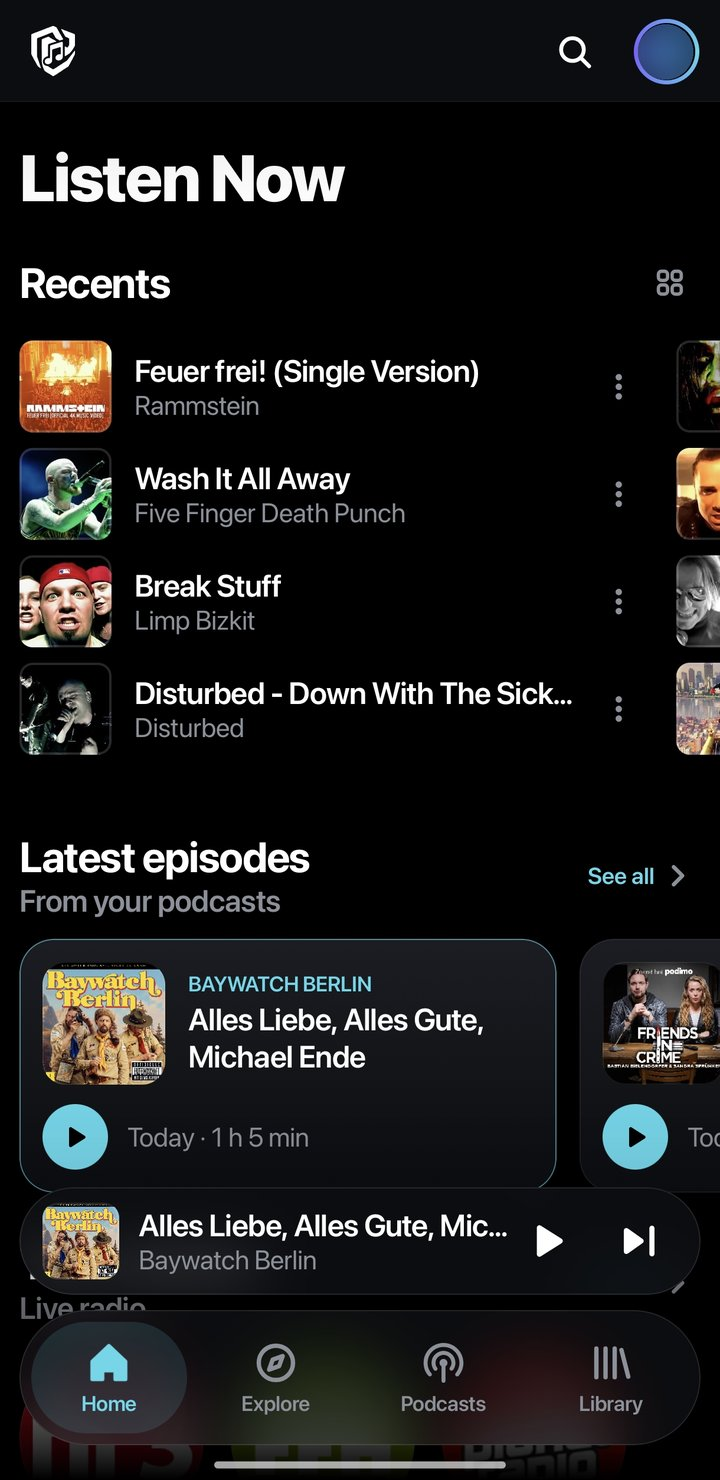
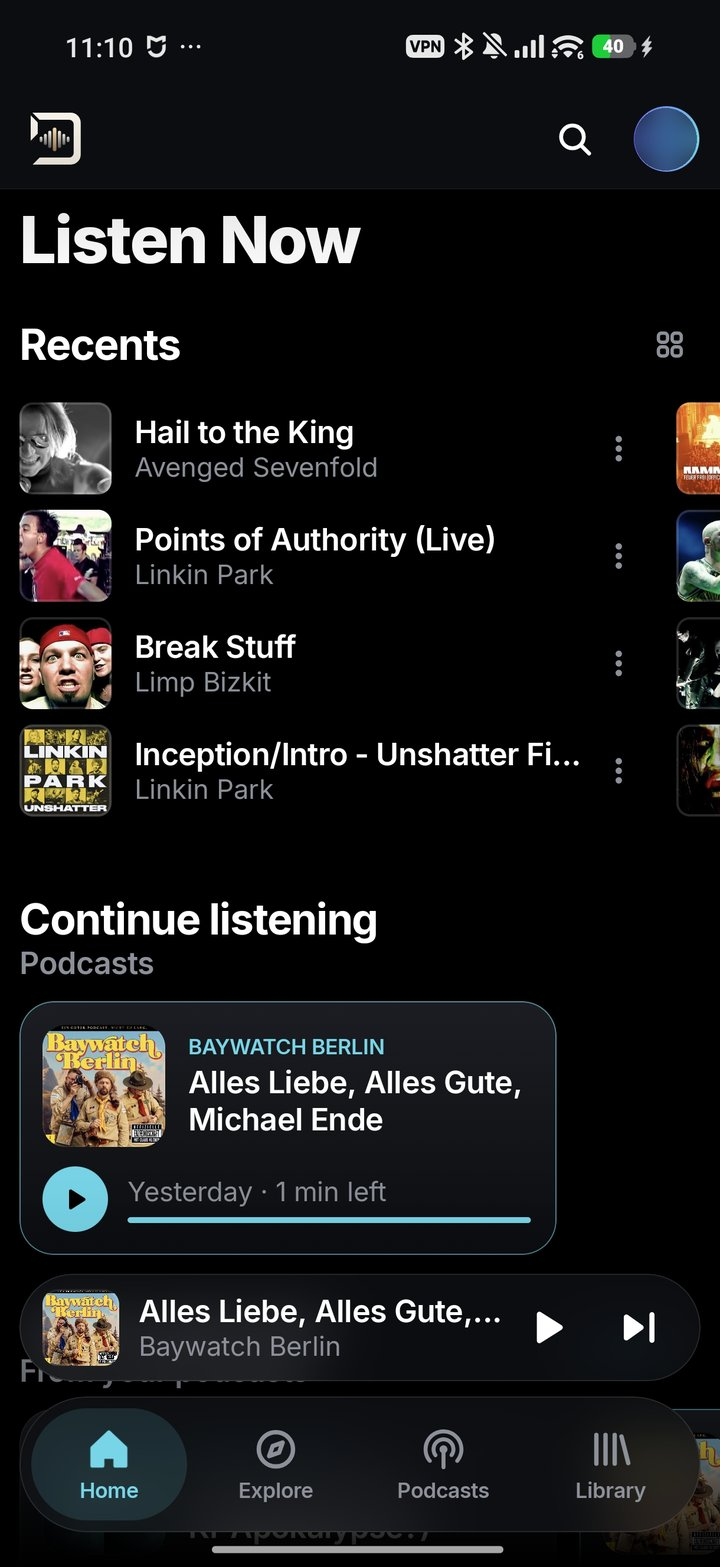
New Screenshots and readme added

diff --git a/README.md b/README.md
@@ -30,10 +30,6 @@
 
 ## Built on BitChord
 
-<div align="center">
-
-</div>
-
 <img src="docs/images/bitchord-icon.png" alt="BitChord" width="72" align="left" />
 
 **PAXwave is a fork of [BitChord](https://github.com/kushagrasinghx/BitChord)**, the beautiful
@@ -74,7 +70,7 @@ something this good and for sharing it with everyone under the GPL.
 
 If you enjoy PAXwave, please **[give BitChord a ⭐](https://github.com/kushagrasinghx/BitChord)**
 and support the original project. All credit for the BitChord parts belongs to its authors;
-the BitChord name, logo and banner shown here are theirs and are used only to credit them.
+the BitChord name and logo shown here are theirs and are used only to credit them.
 PAXwave is an independent fork and is not run or endorsed by the BitChord team.
 
 ---
